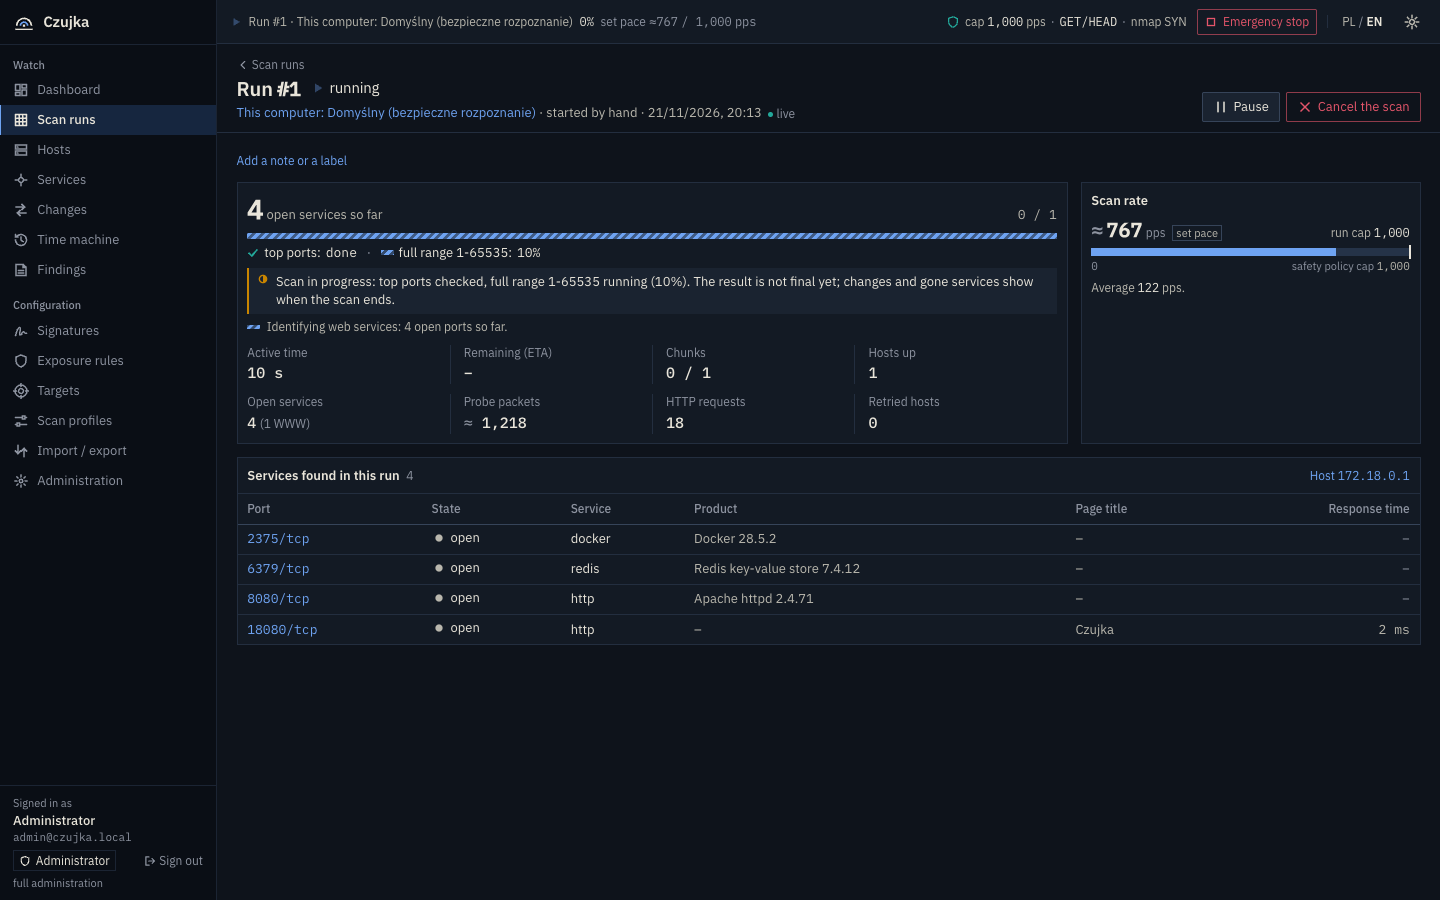
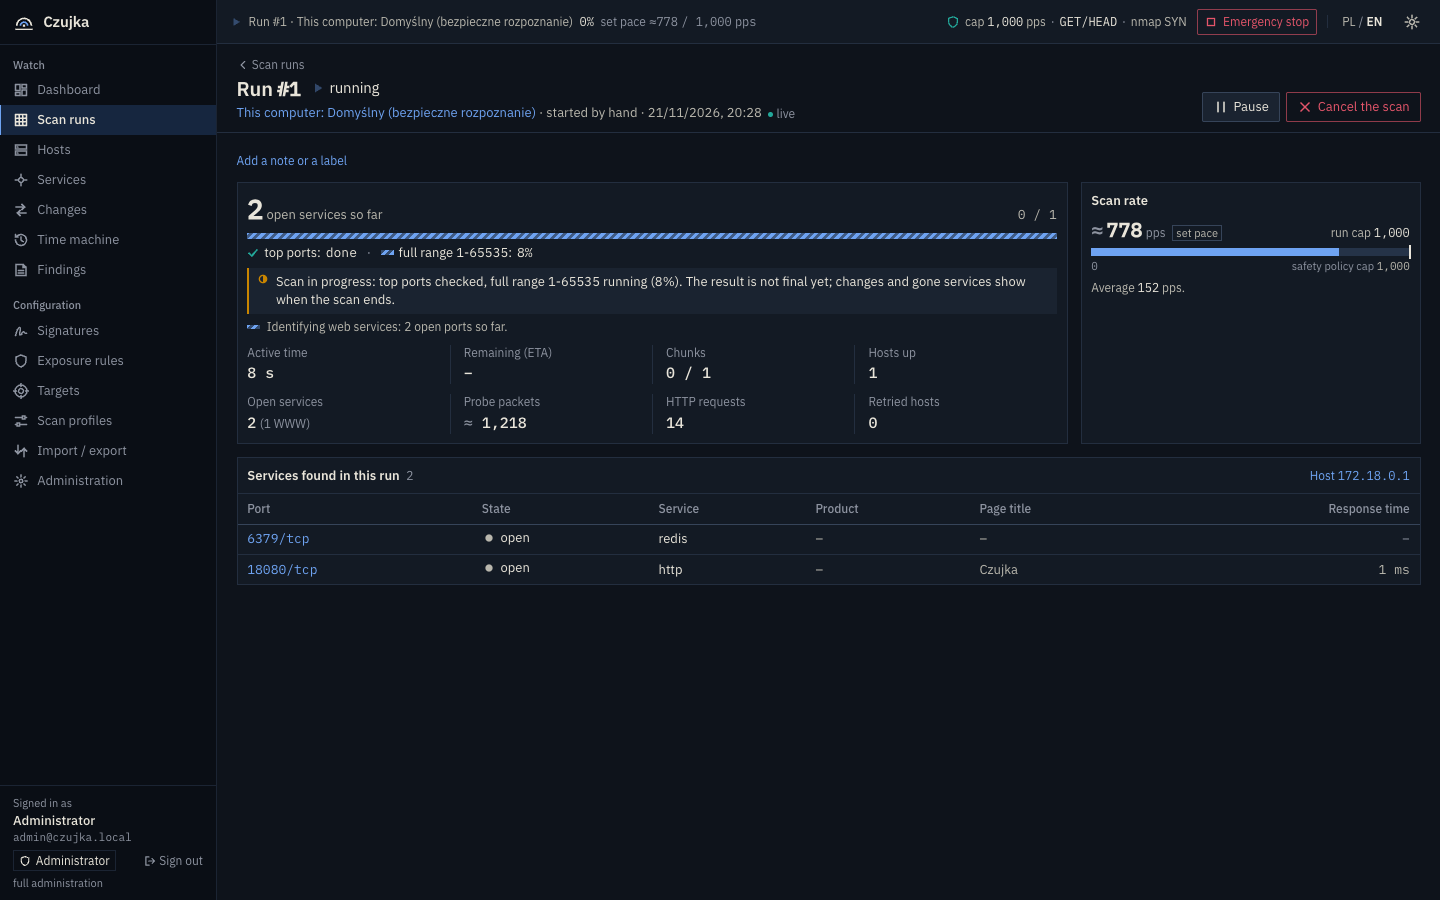
docs(web): re-measure the one-machine flow in dind on the merged engine a5a3025

diff --git a/web/REPORT-LAB.md b/web/REPORT-LAB.md
@@ -207,7 +207,7 @@ Also in this round: a service name is never empty (fallback "nierozpoznana"); Cz
 
 ## 15. One machine in a dind "jury machine": staged full range, partial result, fixes
 
-Where: a `docker:28-dind` container (`czui-dind`). Czujka (image built from `iwosmu/czujka-accuracy` with this branch merged) and the target containers run inside it. Only Czujka's UI is published, to 127.0.0.1:18640 on the Mac. `localhost` maps to the dind bridge gateway 172.18.0.1, so no scan reaches the Mac. Targets: nginx :8787, Python HTTP with a set delay :9090, redis :6379, httpd :8080; dind's own docker :2375 and Czujka :18080 also answer.
+Where: a `docker:28-dind` container (`czui-dind`). Czujka (image built from this branch after merging the coordinator's a5a3025: gated engine 4d39252 with staged results) and the target containers run inside it. Only Czujka's UI is published, to 127.0.0.1:18640 on the Mac. `localhost` maps to the dind bridge gateway 172.18.0.1, so no scan reaches the Mac. Targets: nginx :8787, Python HTTP with a set delay :9090, redis :6379, httpd :8080; dind's own docker :2375 and Czujka :18080 also answer.
 
 **Fresh install, measured with Playwright (`dind-pl-1..5`, `dind-en-1..5`), the same in PL and EN:**
 
@@ -217,10 +217,10 @@ Where: a `docker:28-dind` container (`czui-dind`). Czujka (image built from `iwo
 | "Ten komputer (localhost)": "localhost = host Dockera 172.18.0.1" | 1.5 s | 1 |
 | "Uruchom skan": run page | 2.2 s | 2 |
 | Passes line and partial note ("najczęstsze porty: gotowe · pełny zakres 1-65535: 1%") | 4.5 s | 2 |
-| First services on screen (4 rows) | 12.6 s | 2 |
+| First services on screen (2 rows: redis, Czujka) | 11.1 s | 2 |
 | Run done, 6 services, full range 1-65535 done | 119 s | 2 |
 
-Where the 10 s to the first row go (API polled every 0.4 s): the top-ports pass ends 2.3 s after the start; `/services?run_id` gives the first rows at 8.5 s, after the HTTP fingerprinting of that pass. The UI polled every 3 s; it now polls a one-host live run every 1.5 s. Rows keep their arrival order while the run is live (0 order changes in both runs; one remount had moved a row before the per-run order cache).
+Where the 9 s from the click to the first row go (API polled every 0.4 s, engine branch before the merge): the top-ports pass ends 2.3 s after the start; `/services?run_id` gives the first rows at 8.5 s, after the HTTP fingerprinting of that pass. Before the merge the UI showed them at 12.6 s with a 3 s poll; with a5a3025 and a 1.5 s poll it shows them at 11.1 s. The engine worker measured 4.1 s on its own one-IP host; in this dind it is about 9 s after the click. Rows keep their arrival order while the run is live (0 order changes in both runs; one remount had moved a row before the per-run order cache).
 
 **Partial result.** While the full-range pass runs, the run page and the dashboard say "Skan trwa: sprawdzono najczęstsze porty, pełny zakres 1-65535 w toku (N%). Wynik nie jest jeszcze ostateczny; zmiany i zniknięte usługi pokażą się po końcu skanu." The live table shows the state of this run ("otwarta"), not the inventory state. Changes exist only after the run ends. The dashboard box of a one-host run counts open services instead of "0% adresów" and hides "pozostało 0 s".
 
